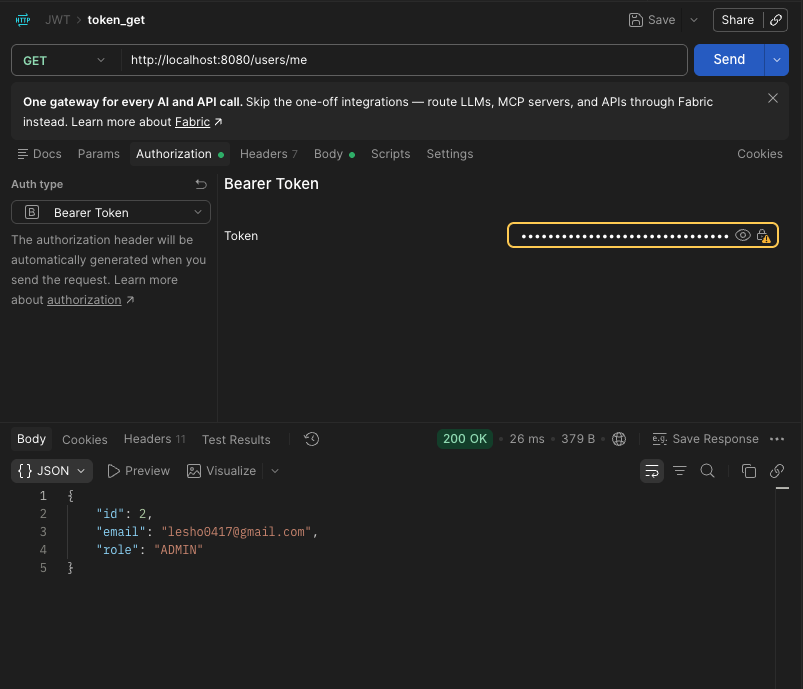
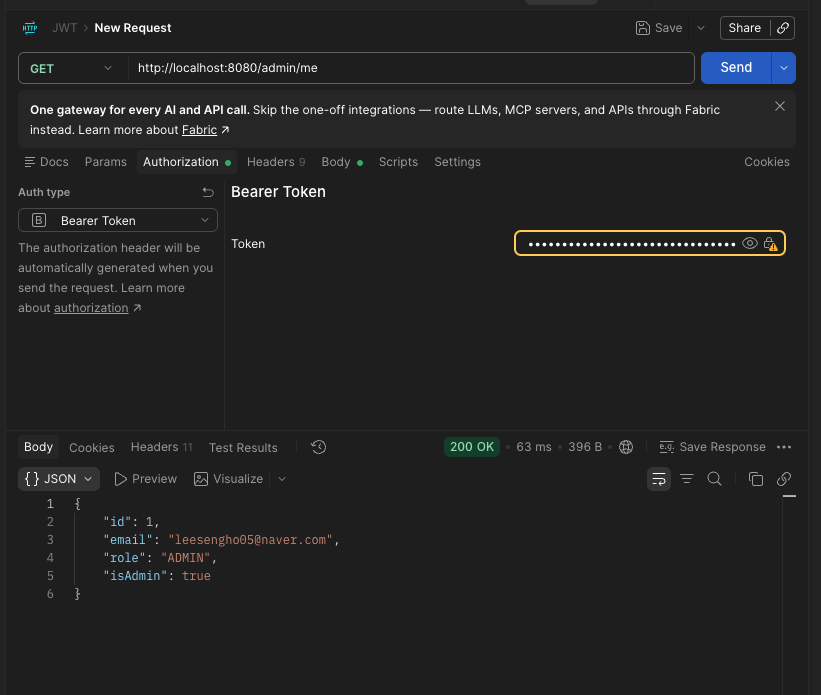
fix : 코드 피드백 반영 수정

diff --git a/leeseungho/Security/src/main/java/com/example/security/global/jwt/JwtProvider.java b/leeseungho/Security/src/main/java/com/example/security/global/jwt/JwtProvider.java
@@ -22,6 +22,9 @@ public class JwtProvider {
     private final long accessTokenExpiration;
     private final long refreshTokenExpiration;
 
+    public record AccessTokenInfo(Long userId, String role) {
+    }
+
     public JwtProvider(@Value("${jwt.secret}") String secret,
                        @Value("${jwt.access-token-expiration}") long accessTokenExpiration,
                        @Value("${jwt.refresh-token-expiration}") long refreshTokenExpiration) {
@@ -53,37 +56,34 @@ public class JwtProvider {
                 .compact();
     }
 
+    public AccessTokenInfo parseAccessToken(String token) {
+        Claims claims = parseClaims(token, ACCESS);
+
+        Long userId = Long.valueOf(claims.getSubject());
+        String role = claims.get("role", String.class);
+
+        if (role == null || role.isBlank()) {
+            throw new JwtException("토큰에 권한 정보가 없습니다.");
+        }
+        return new AccessTokenInfo(userId, role);
+    }
+
     // 토큰 검증하기
     // 서명이 틀리거나, 만료됐거나, 종류가 다르면 JwtException이 발생합니다.
-    public Long getUserIdFromAccessToken(String token) {
-        return getUserId(token, ACCESS);
-    }
-
     public Long getUserIdFromRefreshToken(String token) {
-        return getUserId(token, REFRESH);
-    }
-
-    private Long getUserId(String token, String expectedType) {
-        Claims claims = Jwts.parser()
-                .verifyWith(secretKey)
-                .build()
-                .parseSignedClaims(token)   // 여기서 서명과 만료를 검사합니다.
-                .getPayload();
-
-        if (!expectedType.equals(claims.get("type", String.class))) {
-            throw new JwtException("토큰 종류가 올바르지 않습니다.");
-        }
-
+        Claims claims = parseClaims(token, REFRESH);
         return Long.valueOf(claims.getSubject());
     }
 
-    public String getRoleFromAccessToken(String token) {
+    private Claims parseClaims(String token, String expectedType) {
         Claims claims = Jwts.parser()
                 .verifyWith(secretKey)
                 .build()
                 .parseSignedClaims(token)
                 .getPayload();
-
-        return claims.get("role", String.class);
+        if (!expectedType.equals(claims.get("type", String.class))) {
+            throw new JwtException("토큰 종류가 올바르지 않습니다.");
+        }
+        return claims;
     }
 }

diff --git a/leeseungho/Security/src/main/java/com/example/security/domain/post/service/PostService.java b/leeseungho/Security/src/main/java/com/example/security/domain/post/service/PostService.java
@@ -4,6 +4,9 @@ import com.example.security.domain.post.dto.PostCreateRequest;
 import com.example.security.domain.post.dto.PostResponse;
 import com.example.security.domain.post.entity.Post;
 import com.example.security.domain.post.repository.PostRepository;
+import com.example.security.domain.user.entity.Role;
+import com.example.security.domain.user.entity.User;
+import com.example.security.domain.user.repository.UserRepository;
 import com.example.security.global.exception.ErrorCode;
 import com.example.security.global.exception.ForbiddenException;
 import com.example.security.global.exception.NotFoundException;
@@ -19,6 +22,7 @@ import java.util.List;
 public class PostService {
 
     private final PostRepository postRepository;
+    private final UserRepository userRepository;
 
     @Transactional
     public PostResponse createPost(Long userId, PostCreateRequest request) {
@@ -33,12 +37,17 @@ public class PostService {
     }
 
     @Transactional
-    public void deletePost(Long postId, Long userId, boolean isAdmin) {
+    public void deletePost(Long postId, Long userId) {
         Post post = postRepository.findById(postId)
                 .orElseThrow(() -> new NotFoundException(ErrorCode.POST_NOT_FOUND));
 
+        User user = userRepository.findById(userId)
+                .orElseThrow(() -> new NotFoundException(ErrorCode.USER_NOT_FOUND));
+
+        boolean isAdmin = user.getRole() == Role.ADMIN;
+
         // 인가: 로그인한 사람이 게시글 작성자인지 확인
-        if (!isAdmin && !post.isWrittenBy(userId)) {
+        if (!post.isWrittenBy(userId) && !isAdmin) {
             throw new ForbiddenException(ErrorCode.POST_FORBIDDEN);
         }
 

diff --git a/leeseungho/Security/src/main/java/com/example/security/global/jwt/JwtAuthenticationFilter.java b/leeseungho/Security/src/main/java/com/example/security/global/jwt/JwtAuthenticationFilter.java
@@ -30,19 +30,13 @@ public class JwtAuthenticationFilter extends OncePerRequestFilter {
 
         if (token != null) {
             try {
-                // 2. 토큰 검증하고 userId 꺼내기
-                Long userId = jwtProvider.getUserIdFromAccessToken(token);
-                String role = jwtProvider.getRoleFromAccessToken(token);
-
-                if (role == null || role.isBlank()) {
-                    throw new JwtException("토큰에 권한 정보가 없습니다.");
-                }
+                JwtProvider.AccessTokenInfo tokenInfo = jwtProvider.parseAccessToken(token);
 
                 // 3. "이 요청은 userId 사용자가 보냈다"는 인증 정보 만들기
                 Authentication authentication = UsernamePasswordAuthenticationToken.authenticated(
-                        userId,                                         // principal: 누구인지
+                        tokenInfo.userId(),                                        // principal: 누구인지
                         null,                                           // credentials: 검증 끝났으니 필요 없음
-                        List.of(new SimpleGrantedAuthority("ROLE_" + role)) // authorities: 권한
+                        List.of(new SimpleGrantedAuthority("ROLE_" + tokenInfo.role())) // authorities: 권한
                 );
 
                 // 4. SecurityContext에 저장 → 이제 Spring Security가 "인증된 요청"으로 봅니다.

diff --git a/leeseungho/Security/src/main/java/com/example/security/domain/post/controller/PostController.java b/leeseungho/Security/src/main/java/com/example/security/domain/post/controller/PostController.java
@@ -7,7 +7,6 @@ import jakarta.validation.Valid;
 import jakarta.validation.constraints.Positive;
 import lombok.RequiredArgsConstructor;
 import org.springframework.http.HttpStatus;
-import org.springframework.security.core.Authentication;
 import org.springframework.security.core.annotation.AuthenticationPrincipal;
 import org.springframework.web.bind.annotation.DeleteMapping;
 import org.springframework.web.bind.annotation.GetMapping;
@@ -42,10 +41,7 @@ public class PostController {
     @DeleteMapping("/{postId}")
     @ResponseStatus(HttpStatus.NO_CONTENT)
     public void deletePost(@PathVariable @Positive(message = "게시글 id는 양수여야 합니다.") Long postId,
-                           @AuthenticationPrincipal Long userId,
-                           Authentication authentication) {
-        boolean isAdmin = authentication.getAuthorities().stream()
-                        .anyMatch(auth -> auth.getAuthority().equals("ROLE_ADMIN"));
-        postService.deletePost(postId, userId, isAdmin);
+                           @AuthenticationPrincipal Long userId) {
+        postService.deletePost(postId, userId);
     }
 }

diff --git a/leeseungho/Security/src/main/java/com/example/security/domain/auth/service/AuthService.java b/leeseungho/Security/src/main/java/com/example/security/domain/auth/service/AuthService.java
@@ -6,7 +6,6 @@ import com.example.security.domain.auth.dto.SignupRequest;
 import com.example.security.domain.auth.dto.TokenResponse;
 import com.example.security.domain.auth.entity.RefreshToken;
 import com.example.security.domain.auth.repository.RefreshTokenRepository;
-import com.example.security.domain.user.entity.Role;
 import com.example.security.domain.user.entity.User;
 import com.example.security.domain.user.repository.UserRepository;
 import com.example.security.global.exception.ConflictException;
@@ -37,7 +36,7 @@ public class AuthService {
         }
 
         try {
-            userRepository.saveAndFlush(new User(email, passwordEncoder.encode(request.password()), Role.USER));
+            userRepository.saveAndFlush(new User(email, passwordEncoder.encode(request.password())));
         } catch (DataIntegrityViolationException e) {
             throw new ConflictException(ErrorCode.DUPLICATE_EMAIL, e);
         }

diff --git a/leeseungho/Security/src/main/java/com/example/security/domain/user/service/UserService.java b/leeseungho/Security/src/main/java/com/example/security/domain/user/service/UserService.java
@@ -1,7 +1,7 @@
 package com.example.security.domain.user.service;
 
+import com.example.security.domain.user.dto.AdminMeResponse;
 import com.example.security.domain.user.dto.UserResponse;
-import com.example.security.domain.user.entity.Role;
 import com.example.security.domain.user.entity.User;
 import com.example.security.domain.user.repository.UserRepository;
 import com.example.security.global.exception.ErrorCode;
@@ -22,5 +22,12 @@ public class UserService {
                 .orElseThrow(() -> new NotFoundException(ErrorCode.USER_NOT_FOUND));
 
         return UserResponse.from(user);
+    }
+
+    public AdminMeResponse getAdminInfo(Long userId) {
+        User user = userRepository.findById(userId)
+                .orElseThrow(() -> new NotFoundException(ErrorCode.USER_NOT_FOUND));
+
+        return AdminMeResponse.from(user);
     }
 }

diff --git a/leeseungho/Security/src/main/java/com/example/security/domain/user/controller/AdminController.java b/leeseungho/Security/src/main/java/com/example/security/domain/user/controller/AdminController.java
@@ -1,6 +1,6 @@
 package com.example.security.domain.user.controller;
 
-import com.example.security.domain.user.dto.UserResponse;
+import com.example.security.domain.user.dto.AdminMeResponse;
 import com.example.security.domain.user.service.UserService;
 import lombok.RequiredArgsConstructor;
 import org.springframework.security.core.annotation.AuthenticationPrincipal;
@@ -16,7 +16,7 @@ public class AdminController {
     private final UserService userService;
 
     @GetMapping("/me")
-    public UserResponse getAdminInfo(@AuthenticationPrincipal Long userId) {
-        return userService.getMyInfo(userId);
+    public AdminMeResponse getAdminInfo(@AuthenticationPrincipal Long userId) {
+        return userService.getAdminInfo(userId);
     }
 }

diff --git a/leeseungho/Security/src/main/java/com/example/security/global/exception/ErrorCode.java b/leeseungho/Security/src/main/java/com/example/security/global/exception/ErrorCode.java
@@ -26,7 +26,7 @@ public enum ErrorCode {
     INVALID_REFRESH_TOKEN("AUTH_003", HttpStatus.UNAUTHORIZED, "유효하지 않은 Refresh Token입니다."),
     REFRESH_TOKEN_NOT_FOUND("AUTH_004", HttpStatus.UNAUTHORIZED, "로그인 기록이 없습니다."),
     REFRESH_TOKEN_REUSED("AUTH_005", HttpStatus.UNAUTHORIZED, "이미 사용한 Refresh Token입니다."),
-    TOKEN_NOT_USING("AUTH_006", HttpStatus.UNAUTHORIZED, "로그인이 필요합니다."),
+    TOKEN_NOT_USING("AUTH_006", HttpStatus.UNAUTHORIZED, "토큰을 입력하세요."),
     ACCESS_PERMISSION_REQUIRED("AUTH_007", HttpStatus.FORBIDDEN, "관리자의 권한이 필요합니다."),
     INVALID_TOKEN_TYPE("AUTH_008", HttpStatus.UNAUTHORIZED, "잘못된 토큰 타입입니다."),
 

diff --git a/leeseungho/Security/src/main/java/com/example/security/domain/user/dto/AdminMeResponse.java b/leeseungho/Security/src/main/java/com/example/security/domain/user/dto/AdminMeResponse.java
@@ -1,0 +1,20 @@
+package com.example.security.domain.user.dto;
+
+import com.example.security.domain.user.entity.Role;
+import com.example.security.domain.user.entity.User;
+
+public record AdminMeResponse(
+        Long id,
+        String email,
+        Role role,
+        boolean isAdmin
+) {
+    public static AdminMeResponse from(User user) {
+        return new AdminMeResponse(
+                user.getId(),
+                user.getEmail(),
+                user.getRole(),
+                user.getRole() == Role.ADMIN
+        );
+    }
+}

diff --git a/leeseungho/Security/src/main/java/com/example/security/domain/user/dto/UserResponse.java b/leeseungho/Security/src/main/java/com/example/security/domain/user/dto/UserResponse.java
@@ -1,15 +1,13 @@
 package com.example.security.domain.user.dto;
 
-import com.example.security.domain.user.entity.Role;
 import com.example.security.domain.user.entity.User;
 
 public record UserResponse(
         Long id,
-        String email,
-        Role role
+        String email
 ) {
 
     public static UserResponse from(User user) {
-        return new UserResponse(user.getId(), user.getEmail(), user.getRole());
+        return new UserResponse(user.getId(), user.getEmail());
     }
 }

diff --git a/leeseungho/Security/src/main/java/com/example/security/domain/user/entity/User.java b/leeseungho/Security/src/main/java/com/example/security/domain/user/entity/User.java
@@ -32,9 +32,9 @@ public class User {
     @Column(nullable = false)
     private Role role;
 
-    public User(String email, String password, Role role) {
+    public User(String email, String password) {
         this.email = email;
         this.password = password;
-        this.role = role;
+        this.role = Role.USER;
     }
 }
